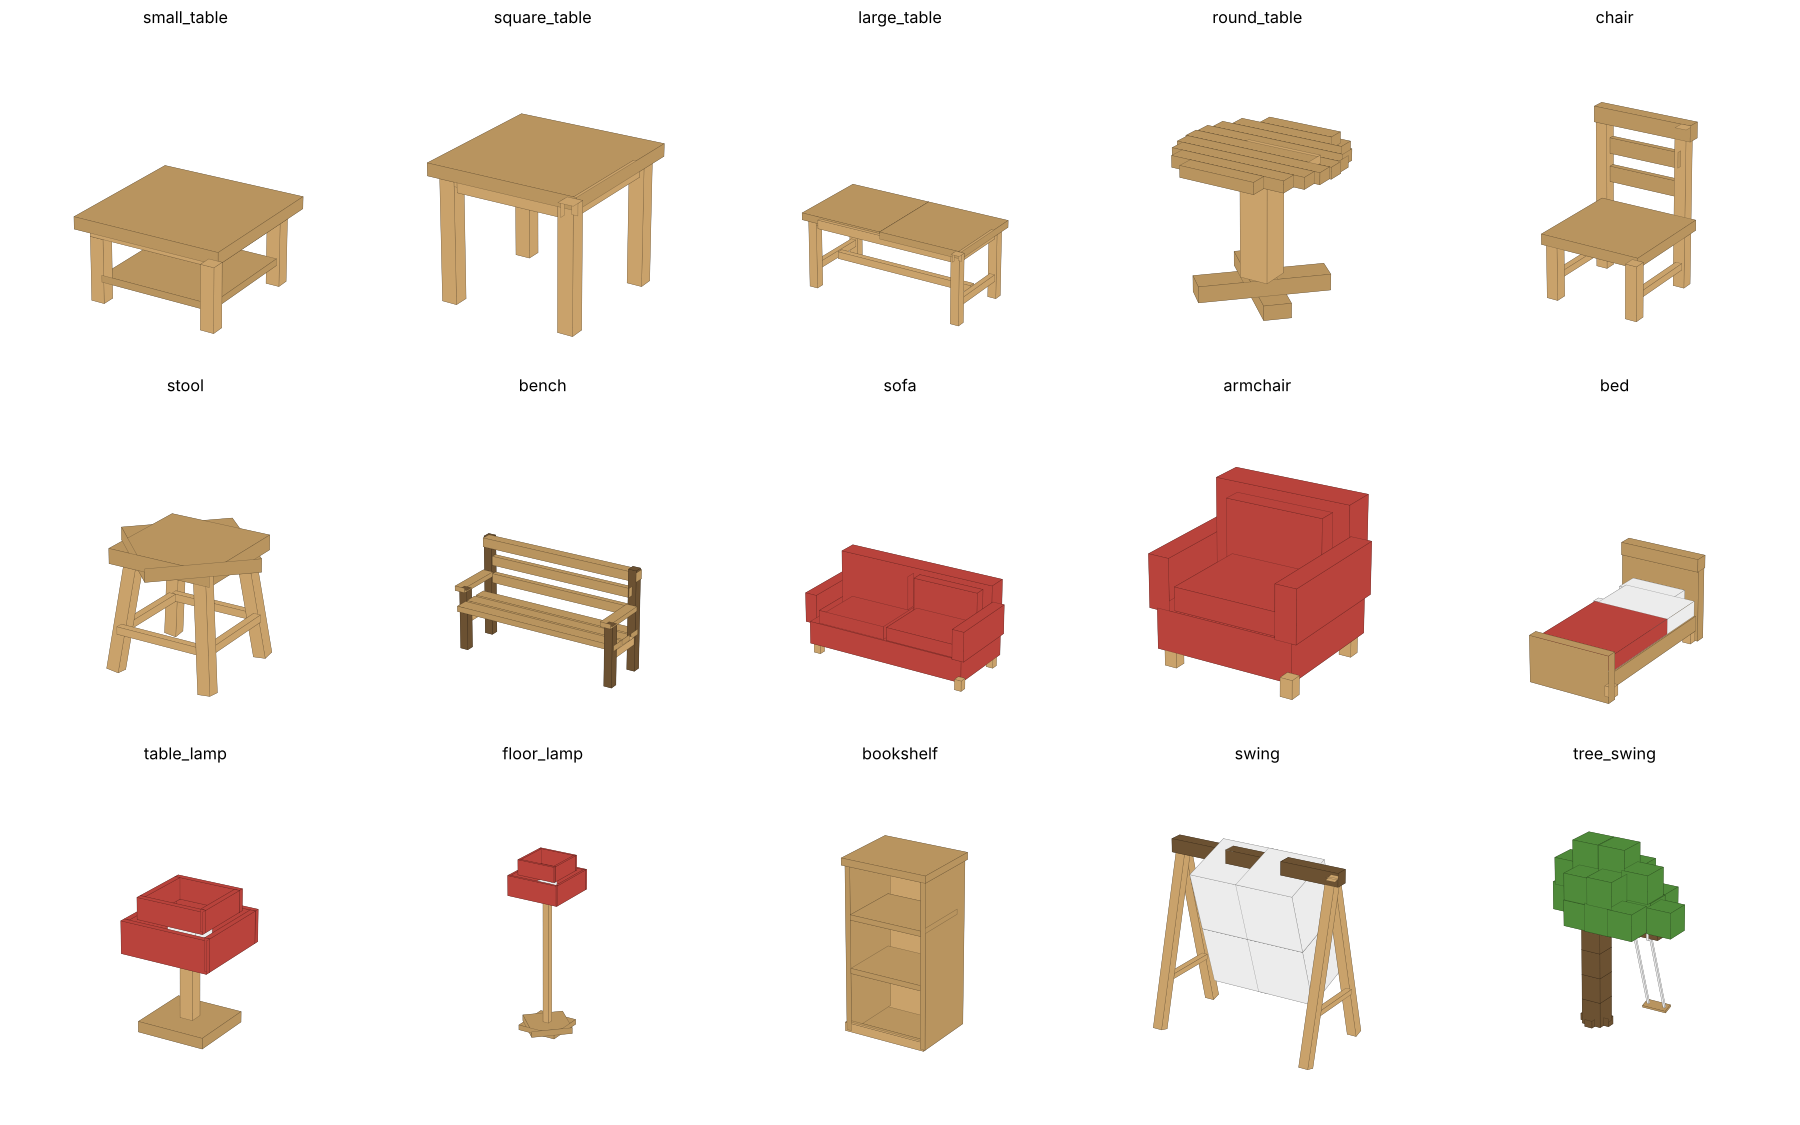
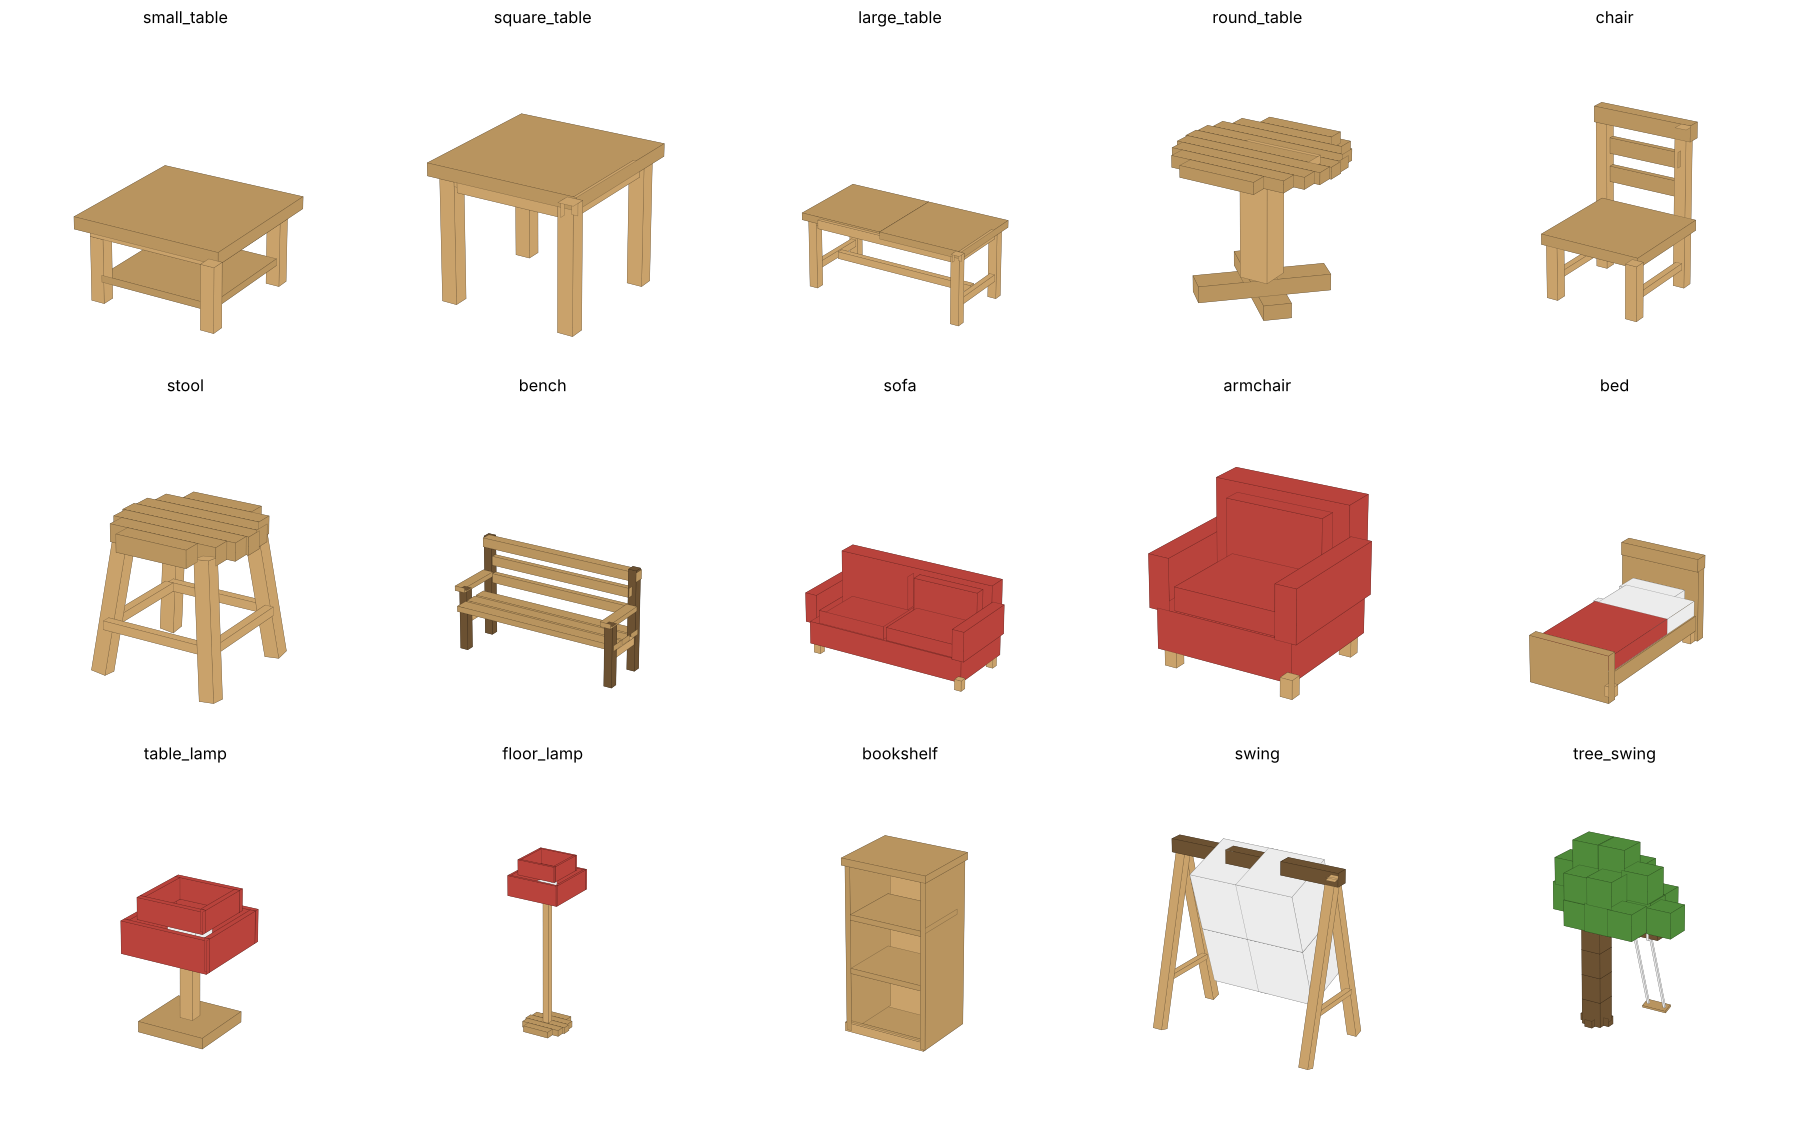
修正凳子座面與落地燈底座呈現星形的問題（1.0.1）
原本用兩個方塊疊加（其中一個轉 45°）做圓形，旋轉方塊的角會突出變成星形。
改用與圓桌相同的木條拼圓方式，並抽出共用的 disc() 方法。

Claude-Session: https://claude.ai/code/session_016cHFzsyVCZUHFk9UKxUouX

Changed region(s): [[0.0311, 0.4356, 0.1556, 0.6222], [0.28, 0.9022, 0.3111, 0.9333]]

diff --git a/src/main/java/tw/cozy/furniture/model/Models.java b/src/main/java/tw/cozy/furniture/model/Models.java
@@ -66,15 +66,7 @@ public final class Models {
     /** 圓桌：以木條拼出圓形桌面，單柱腳 + 十字底座。 */
     public static Model roundTable() {
         Model m = new Model();
-        float r = 0.48f;
-        int strips = 9;
-        float w = 2 * 0.468f / strips;
-        for (int i = 0; i < strips; i++) {
-            float z0 = -0.468f + i * w;
-            float zc = z0 + w / 2f;
-            float half = (float) Math.sqrt(r * r - zc * zc);
-            m.add(box(Tex.PLANKS, -half, 0.81f, z0, half, 0.88f, z0 + w));
-        }
+        disc(m, Tex.PLANKS, 0.48f, 0.81f, 0.88f, 9);
         m.add(box(Tex.STRIPPED, -0.24f, 0.76f, -0.24f, 0.24f, 0.81f, 0.24f));
         m.add(box(Tex.STRIPPED, -0.09f, 0.1f, -0.09f, 0.09f, 0.76f, 0.09f));
         m.add(rot(Tex.PLANKS, 0f, 0.05f, 0f, 0.78f, 0.1f, 0.16f, Geo.yRot(45)));
@@ -82,6 +74,18 @@ public final class Models {
         m.tableTop = 0.88f;
         m.solid(0, 0, 0).hitbox(0, 0, 0, 1f, 0.9f);
         return m;
+    }
+
+    /** 以數條不重疊的木條拼出圓盤（避免旋轉方塊疊在一起變成星形、或表面閃爍）。 */
+    private static void disc(Model m, Tex tex, float r, float y0, float y1, int strips) {
+        float span = r * 0.975f;
+        float w = 2 * span / strips;
+        for (int i = 0; i < strips; i++) {
+            float z0 = -span + i * w;
+            float zc = z0 + w / 2f;
+            float half = (float) Math.sqrt(r * r - zc * zc);
+            m.add(box(tex, -half, y0, z0, half, y1, z0 + w));
+        }
     }
 
     private static void addLegsAndApron(Model m, float x0, float x1, float z0, float z1) {
@@ -127,8 +131,7 @@ public final class Models {
     /** 凳子：外八腳的小圓凳。 */
     public static Model stool() {
         Model m = new Model();
-        m.add(box(Tex.PLANKS, -0.29f, 0.56f, -0.29f, 0.29f, 0.64f, 0.29f));
-        m.add(rot(Tex.PLANKS, 0f, 0.6f, 0f, 0.58f, 0.07f, 0.58f, Geo.yRot(45)));
+        disc(m, Tex.PLANKS, 0.31f, 0.56f, 0.64f, 7);
         float a = 0.12f;
         for (int sx = -1; sx <= 1; sx += 2) {
             for (int sz = -1; sz <= 1; sz += 2) {
@@ -261,8 +264,7 @@ public final class Models {
     /** 落地燈：兩格高的立燈。右鍵開關。 */
     public static Model floorLamp() {
         Model m = new Model();
-        m.add(box(Tex.PLANKS, -0.2f, 0f, -0.2f, 0.2f, 0.05f, 0.2f));
-        m.add(rot(Tex.PLANKS, 0f, 0.03f, 0f, 0.4f, 0.06f, 0.4f, Geo.yRot(45)));
+        disc(m, Tex.PLANKS, 0.22f, 0f, 0.06f, 5);
         m.add(box(Tex.STRIPPED, -0.03f, 0.06f, -0.03f, 0.03f, 1.45f, 0.03f));
         m.add(box(BULB_OFF, -0.065f, 1.38f, -0.065f, 0.065f, 1.52f, 0.065f).glowing(BULB_ON));
         shade(m, 1.4f, 1.6f, 1.75f, 0.27f, 0.2f);
